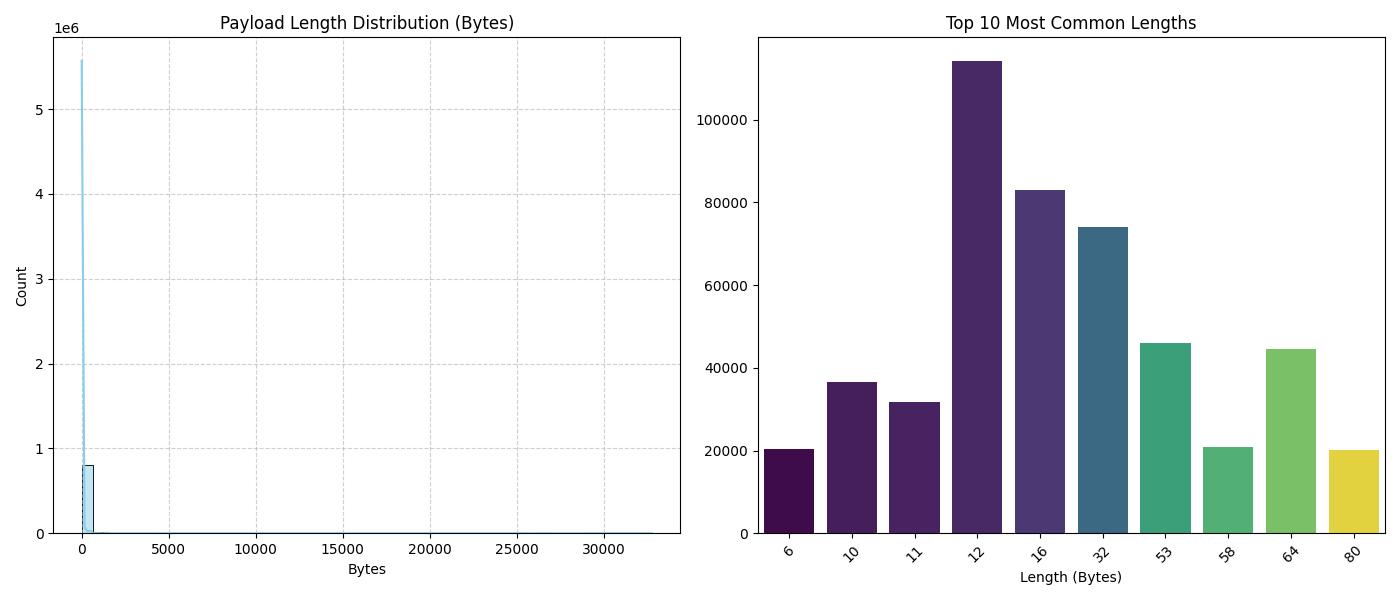
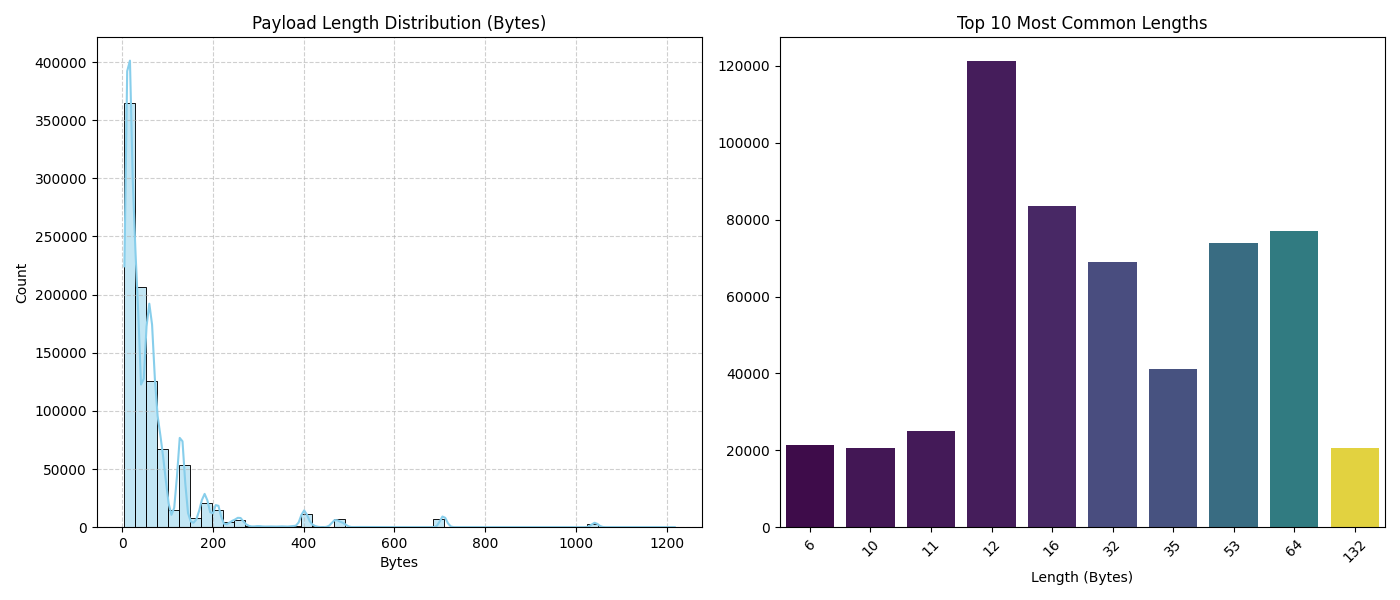
run on new dataset

diff --git a/03_visualize_latent_space.py b/03_visualize_latent_space.py
@@ -252,7 +252,7 @@ def main():
     plt.savefig(pdf_filename, format="pdf", bbox_inches="tight")
     
     print(f"[+] Success! Plot saved as raster image: '{png_filename}' (300 DPI)")
-    print(f"[+] Success! Plot saved as vector graphics: '{pdf_filename}' (Perfect for Thesis LaTeX documents)")
+    print(f"[+] Success! Plot saved as vector graphics: '{pdf_filename}'")
     plt.close()
 
 if __name__ == "__main__":
